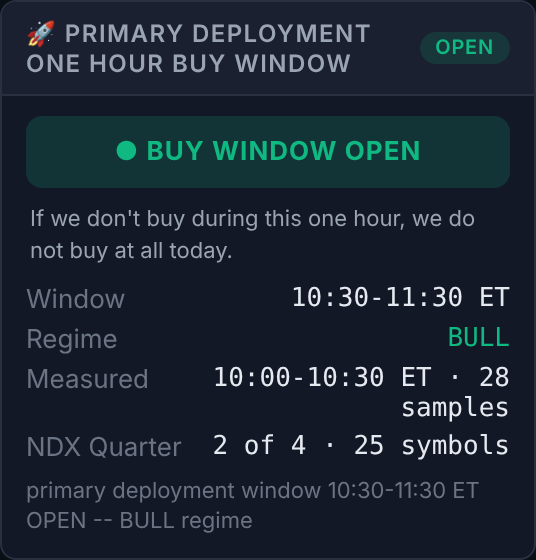
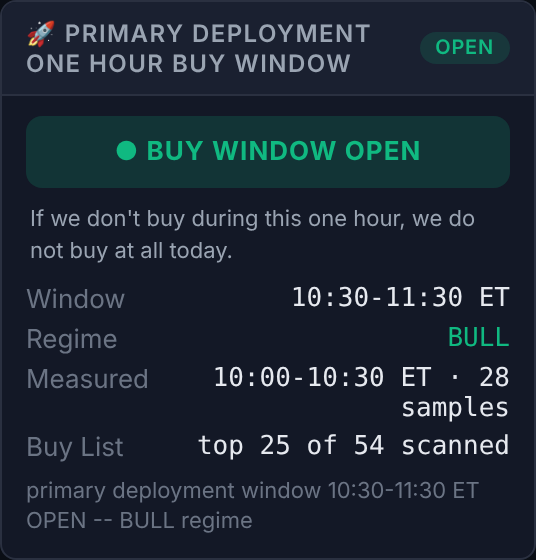
Scan the whole universe, buy only the top 25
Replaces the rotating-quarter selection: every name in the universe is
scanned and scored each cycle, but only the top 25 by the operator
composite (relative dollar volume, 20-day momentum, market-cap proxy)
are eligible to be bought.

- Ranking is z-scored per factor so raw units don't dominate the sum,
  and ties break on symbol so the shortlist is deterministic.
- Applied AFTER the liquidity and momentum filters, so the 25 slots go
  to names that already qualify.
- Degenerate case (zero variance across candidates) contributes 0
  rather than dividing by zero.
- Dashboard 'Buy List' row and README updated to match.

Claude-Session: https://claude.ai/code/session_01FMAna3zseRsxqw7rfmY1hL

diff --git a/alpaca_dashboard_v18.html b/alpaca_dashboard_v18.html
@@ -340,7 +340,7 @@ td.right, th.right { text-align: right; }
         <div class="k">Window</div><div class="v" id="pd-window">—</div>
         <div class="k">Regime</div><div class="v" id="pd-regime">—</div>
         <div class="k">Measured</div><div class="v" id="pd-sample">—</div>
-        <div class="k">NDX Quarter</div><div class="v" id="pd-quarter">—</div>
+        <div class="k">Buy List</div><div class="v" id="pd-quarter">—</div>
       </div>
       <div id="pd-reason" style="font-size:11px;color:var(--fg3);padding-top:6px;
            line-height:1.4"></div>
@@ -1743,9 +1743,9 @@ function renderPrimaryDeployment(p) {
                             : (p.state === 'sampling' ? 'measuring…' : 'not yet measured'),
       okCls);
   set('pd-sample', `${p.sample_window || '—'} · ${p.sample_count || 0} samples`, '');
-  set('pd-quarter', p.ndx_quarter
-        ? `${p.ndx_quarter} of ${p.ndx_quarter_of} · ${p.ndx_symbol_count} symbols`
-        : `full index · ${p.ndx_symbol_count || 0} symbols`, '');
+  set('pd-quarter', p.buy_top_n
+        ? `top ${p.buy_top_n} of ${p.universe_count} scanned`
+        : `all ${p.universe_count || 0} scanned`, '');
   const note = document.getElementById('pd-reason');
   if (note) note.textContent = p.reason || '';
 }

diff --git a/billionaire_strategy_buy_lowest_price_stock_market_robot_v18.py b/billionaire_strategy_buy_lowest_price_stock_market_robot_v18.py
@@ -10367,6 +10367,10 @@ ONE_PER_DAY_RANK_MCAP   = 1.0       # weight on market-cap z-score
 UNIVERSE_NASDAQ_TECH_ONLY = True
 UNIVERSE_MIN_MARKET_CAP   = 2_000_000_000     # $2B -- mid cap floor
 _NASDAQ_TECH_UNIVERSE = [
+    # Mega-cap anchors (FAANG + friends). These were missing from the original
+    # list -- it was built from semiconductor and enterprise-software names, so
+    # the biggest and most liquid Nasdaq technology companies were absent.
+    'META','AMZN','GOOGL','GOOG','NFLX','TSLA',
     'AAPL','NVDA','MSFT','AVGO','MU','AMD','ASML','CSCO','AMAT','PANW','LRCX',
     'TXN','CRWD','ARM','KLAC','ADI','MRVL','QCOM','STX','WDC','FTNT','ADBE',
     'INTU','CDNS','SNPS','DDOG','NXPI','MPWR','ADSK','TER','MCHP','PAYX',
@@ -11292,50 +11296,84 @@ PLTR PANW PAYX PYPL PDD PEP QCOM REGN RKLB ROP ROST SNDK STX SHOP SPCX SBUX SNPS
 TTWO TER TSLA TXN TRI VRTX WMT WDC WDAY XEL
 """.split()
 
-# ---------------- Quarter-of-the-Nasdaq rotation ----------------
-# Operator rule: trade one QUARTER of the Nasdaq-100 at a time -- 25 symbols
-# per session -- rather than scanning all 100 every cycle. The quarter
-# ROTATES by trading day, so slice 0 runs today, slice 1 tomorrow, and the
-# whole index is covered every four sessions. Rotating (rather than always
-# re-ranking and taking the same top 25) is what keeps the bot from grinding
-# the same handful of mega-caps day after day.
+# ---------------- Top-25 tradable shortlist ----------------
+# Operator rule: the UNIVERSE stays whole -- every name is scanned and scored
+# every cycle -- but only the TOP 25 are eligible to be bought. The scan is
+# wide; the buy list is narrow.
 #
-# The slice is computed from the ET date so every thread, and a mid-session
-# restart, all land on the SAME 25 names for the day.
-NDX_QUARTER_MODE = 'armed'      # 'armed' = 25/session | 'off' = full 100
-NDX_QUARTER_COUNT = 4           # quarters -> 25 names each
+# This is a ranked shortlist, not a rotation. The full universe is measured,
+# ranked by the operator's composite (relative dollar volume, 20-day
+# momentum, market cap), and everything below rank 25 is dropped before any
+# setup is looked for. Two consequences worth being clear-eyed about:
+#   - The same leaders will tend to appear day after day. That is the point
+#     of ranking, but it does mean less name diversity than a rotation.
+#   - A name ranked 26th is not bought even with a perfect setup.
+NDX_TOP_N_MODE = 'armed'      # 'armed' = top 25 only | 'off' = whole universe
+NDX_TOP_N = 25                # how many of the ranked universe may be bought
 
 # Standing operator policy: never buy RNA/mRNA coronavirus-vaccine companies.
-# Filtered out of the Nasdaq-100 before the quarter is cut, so excluding them
-# never silently shrinks one quarter while leaving the others full size.
+# Filtered out before ranking, so an excluded name never occupies one of the
+# 25 shortlist slots.
 NDX_PERMANENT_EXCLUSIONS = {'MRNA'}
 
 
 def _ndx_tradable_universe():
-    """Nasdaq-100 with the permanently excluded names removed."""
+    """The playbook's Nasdaq universe with permanently excluded names removed."""
     return [s for s in PLAYBOOK_UNIVERSE_NDX
             if s.upper() not in NDX_PERMANENT_EXCLUSIONS]
 
 
-def ndx_quarter_for_date(now_et=None):
-    """(symbols, slice_index, n_slices) -- today's quarter of the Nasdaq-100.
+def ndx_scan_universe(now_et=None):
+    """(symbols, top_n_or_None) -- the full universe scanned each cycle.
 
-    With NDX_QUARTER_MODE != 'armed' this returns the whole index and a slice
-    index of None, so the caller's logging still reads correctly.
+    The shortlist is applied AFTER the daily context is fetched (see
+    _playbook_candidates), because ranking needs the dollar-volume and
+    momentum numbers that come with that fetch. This returns the whole
+    universe plus the shortlist size to apply later.
     """
     universe = _ndx_tradable_universe()
-    if NDX_QUARTER_MODE != 'armed' or NDX_QUARTER_COUNT < 2:
-        return universe, None, 1
-    now_et = now_et or datetime.now(eastern)
-    # toordinal() advances by one each calendar day; weekends simply mean some
-    # slices come up on days the market is shut, which costs nothing.
-    idx = now_et.date().toordinal() % NDX_QUARTER_COUNT
-    ordered = sorted(universe)
-    # Stride slicing (every 4th name) rather than contiguous blocks: a
-    # contiguous alphabetical block would hand one day all the A-names and
-    # another all the T-names, which correlates each day's basket by sector
-    # far more than it looks like it would.
-    return ordered[idx::NDX_QUARTER_COUNT], idx, NDX_QUARTER_COUNT
+    if NDX_TOP_N_MODE != 'armed' or NDX_TOP_N < 1:
+        return universe, None
+    return universe, NDX_TOP_N
+
+
+def rank_top_n(symbols, ctx, top_n):
+    """The top `top_n` of `symbols` by the operator's composite rank.
+
+    ctx maps symbol -> (prev_close, mom_20d, dollar_volume), as built by
+    _pb_daily_context_all. Each factor is z-scored across the candidates
+    present so no single factor's raw units dominate the sum, then weighted
+    by ONE_PER_DAY_RANK_* -- the same weights the composite ranker already
+    uses elsewhere, so the shortlist and the ranker agree on what "best"
+    means instead of each having its own opinion.
+
+    Market cap is not in ctx; 20-day dollar volume stands in for it. The two
+    correlate strongly across large-cap Nasdaq names, and dollar volume has
+    the advantage of being measured fresh each day rather than looked up.
+    """
+    present = [s for s in symbols if s in ctx]
+    if top_n is None or len(present) <= top_n:
+        return present
+
+    def _z(vals):
+        n = len(vals)
+        mean = sum(vals) / n
+        var = sum((v - mean) ** 2 for v in vals) / n
+        sd = var ** 0.5
+        if sd <= 0:
+            return [0.0] * n        # all identical -> factor contributes nothing
+        return [(v - mean) / sd for v in vals]
+
+    dvols = _z([float(ctx[s][2]) for s in present])
+    moms = _z([float(ctx[s][1]) for s in present])
+    scored = []
+    for i, s in enumerate(present):
+        score = (ONE_PER_DAY_RANK_VOLUME * dvols[i]
+                 + ONE_PER_DAY_RANK_MOM20 * moms[i]
+                 + ONE_PER_DAY_RANK_MCAP * dvols[i])
+        scored.append((score, s))
+    scored.sort(key=lambda t: (-t[0], t[1]))     # name breaks ties, so it is deterministic
+    return [s for _, s in scored[:top_n]]
 
 # ---------------- Portfolio-level liquidation (phase 2 of each sweep) ----------------
 # After phase 1 sells whatever individual positions are already profitable,
@@ -19344,18 +19382,25 @@ def _playbook_scan_candidates(regime):
     if setup == 'gap_reversal' and not (
             PRIMARY_DEPLOYMENT_START_ET <= now_et.time() < PRIMARY_DEPLOYMENT_END_ET):
         return []
+    _top_n = None
     if uni_key == 'all':
         universe = PLAYBOOK_UNIVERSE_ALL
     else:
-        universe, _q_idx, _q_n = ndx_quarter_for_date(now_et)
-        if _q_idx is not None:
-            print(f"[playbook] Nasdaq-100 quarter {_q_idx + 1}/{_q_n} today: "
-                  f"{len(universe)} symbols.")
+        universe, _top_n = ndx_scan_universe(now_et)
     api_syms = sorted({to_alpaca(s) for s in universe})
     ctx = _pb_daily_context_all(api_syms, now_et)
     liquid = [s for s in api_syms if s in ctx and ctx[s][2] >= PLAYBOOK_MIN_DOLLAR_VOLUME]
     if setup == 'dip_20d':
         liquid = [s for s in liquid if ctx[s][1] > MIN_20D_MOMENTUM_PCT]
+    # The whole universe is scanned and scored above; only the top N are
+    # eligible to be BOUGHT. Applied after the liquidity and momentum filters
+    # so the 25 slots go to names that already qualify, rather than being
+    # spent on high-volume names that the filters then throw away.
+    if _top_n is not None:
+        _before = len(liquid)
+        liquid = rank_top_n(liquid, ctx, _top_n)
+        print(f"[playbook] universe {len(api_syms)} scanned -> {_before} passed "
+              f"filters -> top {len(liquid)} eligible to buy.")
     hourly = _pb_hourly_bars_all(liquid, now_et)
     held = set(position_book.snapshot().keys())
     hits = []
@@ -24981,7 +25026,7 @@ class DashboardWSEngine:
         try:
             _pd = primary_deployment_status()
             _sample_state, _sample_regime, _sample_n = get_regime_sampling_status()
-            _q_syms, _q_idx, _q_n = ndx_quarter_for_date()
+            _scan_syms, _top_n = ndx_scan_universe()
             state['primary_deployment'] = {
                 'open': bool(_pd['open']),
                 'time_open': bool(_pd['time_open']),
@@ -24998,10 +25043,8 @@ class DashboardWSEngine:
                 'sample_window': "%s-%s ET" % (
                     REGIME_SAMPLE_START_ET.strftime('%H:%M'),
                     REGIME_ASSESS_ET.strftime('%H:%M')),
-                'ndx_quarter': (None if _q_idx is None else _q_idx + 1),
-                'ndx_quarter_of': _q_n,
-                'ndx_symbol_count': len(_q_syms),
-                'ndx_symbols': list(_q_syms),
+                'universe_count': len(_scan_syms),
+                'buy_top_n': _top_n,
             }
         except Exception as e:
             state['primary_deployment'] = {'error': str(e)}
@@ -25025,7 +25068,7 @@ class DashboardWSEngine:
                 'regime': _reg,
                 'setup': _rule[0] if (_rule and PLAYBOOK_ENABLED) else None,
                 'universe': (len(PLAYBOOK_UNIVERSE_ALL) if _rule and _rule[1] == 'all'
-                             else len(ndx_quarter_for_date()[0]) if _rule else 0),
+                             else len(ndx_scan_universe()[0]) if _rule else 0),
                 'stop_pct': _rule[2] if _rule else None,
                 'target_pct': _rule[3] if _rule else None,
                 'entries_today': _PB_DAY_COUNT.get((_today, _reg), 0),

diff --git a/README.md b/README.md
@@ -30,7 +30,7 @@ Every buy order has to survive a committee. A timing brain scores it, a day-trad
 | | |
 |---|---|
 | **Broker** | Alpaca (paper or live) — market orders only, no resting limit orders |
-| **Universe** | A rotating quarter of the Nasdaq-100 — 25 symbols per session, full index every four days |
+| **Universe** | The full Nasdaq watchlist is scanned and ranked every cycle; only the **top 25** are eligible to buy |
 | **Buy window** | **10:30–11:30 AM ET only**, and only when the latched regime is bullish or sideways |
 | **Entry signal** | Chandelier Exit (22, 3) direction flip + MACD(12,26,9) histogram reversal off the trough, confirmed on the first reversing bar |
 | **Exit signal** | CE flip, MACD histogram climax, chandelier ATR trail, profit monitor giveback, round-trip rescue, hard stop |
@@ -198,7 +198,7 @@ The amber state matters: without it, a bearish day and a hung robot look identic
 
 **Regime is measured, not glanced at.** From **10:00 to 10:30 ET** the robot samples the SPY + VIX regime repeatedly and, at 10:30, latches the **majority verdict** for the rest of the session. A split decision breaks toward the more conservative regime. The latch is frozen — the robot cannot talk itself into buying at 11:15 because SPY twitched across its 20-day SMA.
 
-**A quarter of the Nasdaq at a time.** Each session scans **25 of the Nasdaq-100**, and the quarter rotates by trading day, so the full index is covered every four sessions. The slice is a stride (every 4th name alphabetically), not a contiguous block — a contiguous block would hand one day all the A-names and correlate the basket by sector far more than it appears to.
+**Wide scan, narrow buy list.** The whole universe is measured and scored every cycle — nothing is skipped — but only the **top 25** are eligible to be bought. Ranking uses the operator composite (relative dollar volume, 20-day momentum, market-cap proxy), z-scored across the candidates so no one factor's raw units dominate, and is applied *after* the liquidity and momentum filters so the 25 slots go to names that already qualify. A name ranked 26th is not bought even with a perfect setup, and the leaders will tend to recur day to day — that is what ranking does.
 
 The window is an **entry** gate only. Stops, the profit monitor, the chandelier trail, scale-outs, and the close sweeps are never gated by it — an open position can always leave, at any hour, in any regime. The check is enforced twice: once at the top of the buy cycle, and again immediately before `submit_order`, because a scan can run for minutes and the window can close underneath it.
 
@@ -394,8 +394,8 @@ The constants live near the top of the `.py` file; the dashboard-editable ones a
 | `PRIMARY_DEPLOYMENT_REGIMES` | `('bull','sideways')` | Regimes allowed to buy; everything else buys nothing |
 | `REGIME_SAMPLE_START_ET` | `10:00` | Regime sampling begins |
 | `REGIME_ASSESS_ET` | `10:30` | Majority verdict is latched for the session |
-| `NDX_QUARTER_MODE` | `armed` | `armed` = 25 Nasdaq-100 names/session, `off` = full 100 |
-| `NDX_QUARTER_COUNT` | `4` | Number of rotating slices |
+| `NDX_TOP_N_MODE` | `armed` | `armed` = only the top-ranked names may be bought, `off` = whole universe |
+| `NDX_TOP_N` | `25` | How many ranked names are eligible to buy |
 | `EARLY_MORNING_CUTOFF_ET` | `10:30` | When the early gate opens fully |
 | `EARLY_MORNING_MIN_DROP_PCT` | `0.02` | Required dislocation before the cutoff |
 | `BRAIN_B_MODE` / `BRAIN_B_MIN_SAFE` | `armed` / `0.40` | Risk brain veto and its threshold |
